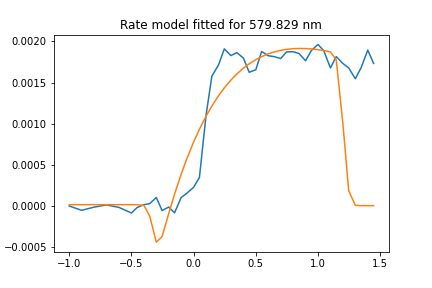
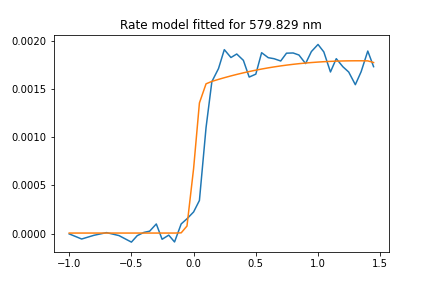
Fixed FFT bug, fast and correct! :)

diff --git a/helpers.py b/helpers.py
@@ -16,6 +16,7 @@ from scipy.optimize import curve_fit
 import os
 from scipy import ndimage
 from scipy import fftpack
+from scipy import signal
 
 
 # return matrix from file
@@ -356,11 +357,16 @@ def convolve_gaussian(t,x,sigma):
     as our time axis may not be uniform we cannot use FFT, so it will be easier to implement with manual convolution, which is what we do here
     '''
     area = np.trapz(gaussian(t,sigma)) # calculate area of gaussian on entire time axis for normalization
+    
+    # FASTER VERSION, has edge error
     precision = abs(t[0]-t[1]) # assuming t has uniform precision
-    centered_t = np.arange(-(len(t)/2)*precision/2,(len(t)/2)*precision,precision)
+    centered_t = np.arange(-(len(t)//2)*precision,(len(t)//2)*precision,precision)
+    if len(centered_t)>len(t):
+        centered_t = centered_t[:len(centered_t)-1]
     convolved = np.convolve(x,gaussian(centered_t,sigma),mode='same')/area
     return convolved
     
+    # # SLOWER VERSION, accurate results
     # output = []
     # for i in range(len(t)):
     #     value = np.sum(x*gaussian(t,sigma,mu=t[i],factor=1/area)) # convolve manually
